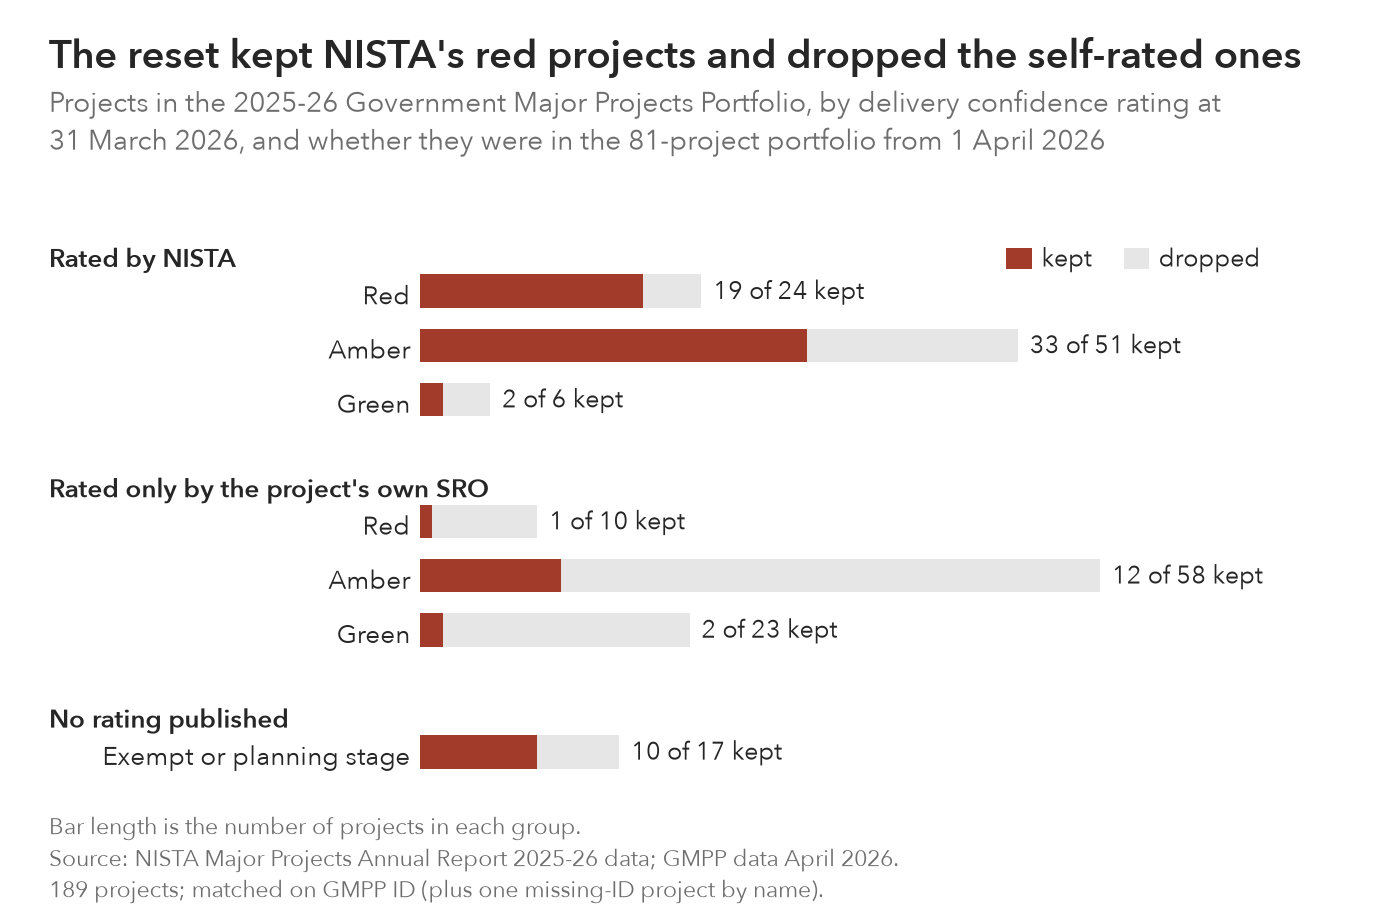
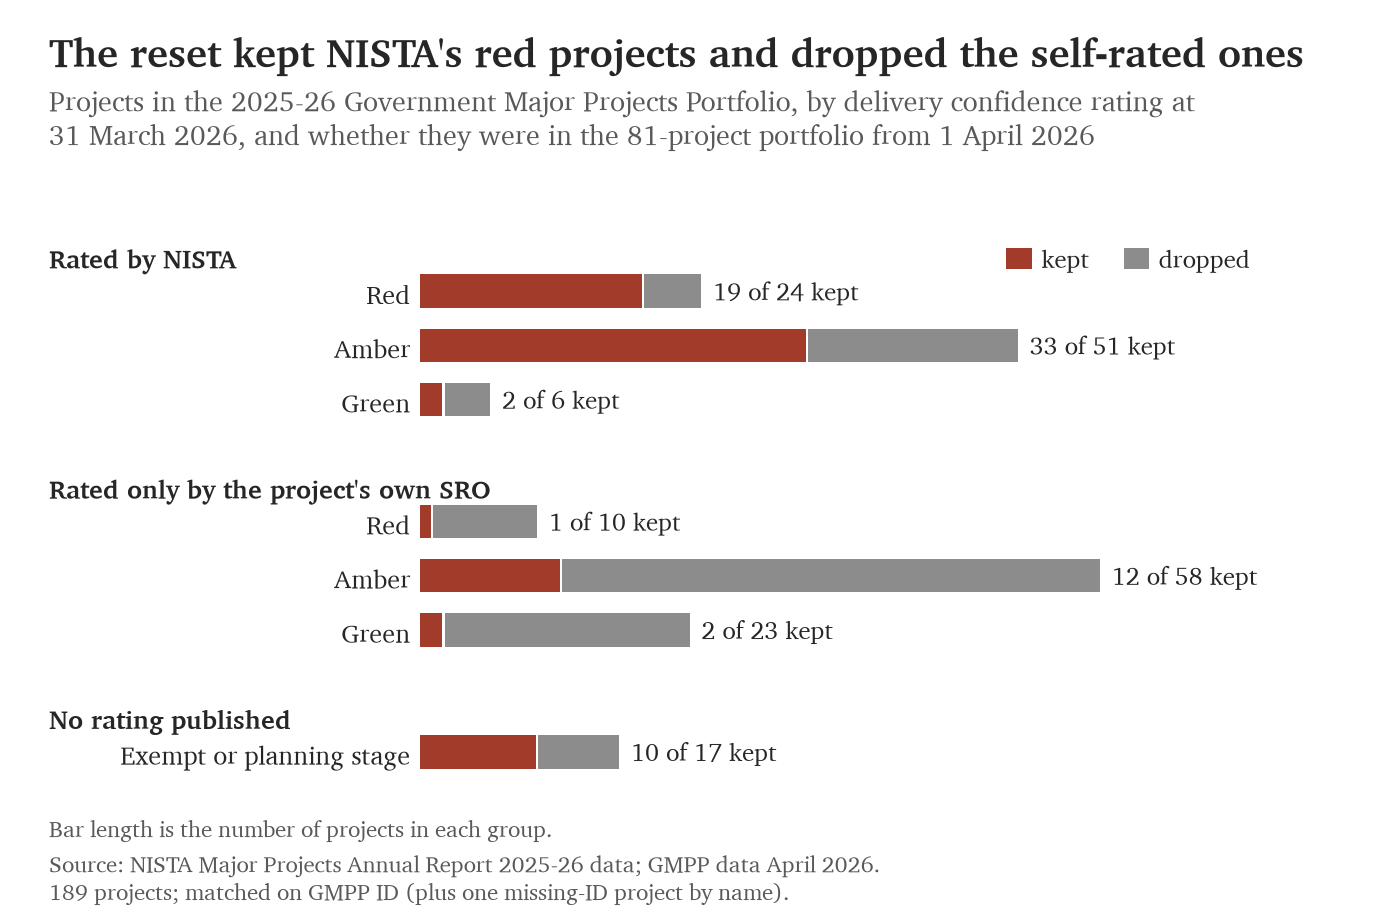
Switch figure to Charter serif and WCAG-accessible contrast (S017)

diff --git a/figure_style/plot_setup.py b/figure_style/plot_setup.py
@@ -1,31 +1,31 @@
-"""House style for Of Particular Interest figures (editorial register, Substack column width).
+"""House style for Of Particular Interest figures (editorial serif register, Substack column width).
 
 Import from a post's figure script:
-    sys.path.insert(0, str(Path(__file__).resolve().parents[2] / "figure_style"))
     from plot_setup import PAL, figure, title_block, save
 
-Avenir Next ships with macOS; on other systems matplotlib falls back to another sans.
+Charter ships with macOS; on other systems matplotlib falls back to Georgia or DejaVu Serif.
 """
 import matplotlib as mpl
 
 mpl.use("Agg")
 import matplotlib.pyplot as plt  # noqa: E402
 
-FONT = "Avenir Next"
+FONT = "Charter"
 BASE_PT = 10.5
 WIDTH_IN = 7.0  # saved at 200 dpi -> 1400 px, 2x Substack's column
 
 PAL = dict(
-    accent="#A23B2A",   # the subject of the figure's sentence
+    accent="#A23B2A",   # the subject of the figure's sentence (6.57:1 on white)
     accent2="#2F5D8A",  # second accent, used rarely
-    ink="#262626",
-    muted="#6E6E6E",    # subtitles, source lines
-    context="#BDBDBD",  # everything that is not the subject
-    faint="#E6E6E6",    # gridlines, table rules
+    ink="#262626",      # primary text (15.13:1 on white, WCAG AAA)
+    muted="#595959",    # subtitles, notes, source lines (7.00:1 on white, WCAG AAA)
+    context="#8C8C8C",  # non-subject bars/series (3.36:1 on white, WCAG 1.4.11 AA >= 3:1)
+    faint="#E6E6E6",    # decorative gridlines, table rules
 )
 
 mpl.rcParams.update({
-    "font.family": FONT,
+    "font.family": "serif",
+    "font.serif": [FONT, "Georgia", "DejaVu Serif"],
     "font.size": BASE_PT,
     "text.color": PAL["ink"],
     "axes.labelsize": BASE_PT,
@@ -57,7 +57,7 @@ def figure(aspect=0.62, nrows=1, ncols=1, **kw):
 def title_block(fig, title, subtitle, source, top=0.97, left=0.035, subtitle_gap=None):
     """Assertive title, measurement subtitle and source line, all on one left edge."""
     gap = subtitle_gap if subtitle_gap is not None else (0.282 / fig.get_figheight())
-    fig.text(left, top, title, ha="left", va="top", fontsize=BASE_PT * 1.45, weight="demibold")
+    fig.text(left, top, title, ha="left", va="top", fontsize=BASE_PT * 1.45, weight="bold")
     fig.text(left, top - gap, subtitle, ha="left", va="top", fontsize=BASE_PT * 0.95, color=PAL["muted"])
     fig.text(left, 0.02, source, ha="left", va="bottom", fontsize=BASE_PT * 0.78, color=PAL["muted"])
 

diff --git a/scripts/figure.py b/scripts/figure.py
@@ -44,8 +44,11 @@ def main(src, out):
                 y += 0.7
             group_y[source] = y
             y += 0.55
-        ax.barh(y, kept, color=PAL["accent"], height=0.62)
-        ax.barh(y, n - kept, left=kept, color=PAL["faint"], height=0.62)
+        gap_x = 0.18 if (kept > 0 and n - kept > 0) else 0.0
+        if kept > 0:
+            ax.barh(y, kept - gap_x / 2, color=PAL["accent"], height=0.62)
+        if n - kept > 0:
+            ax.barh(y, (n - kept) - gap_x / 2, left=kept + gap_x / 2, color=PAL["context"], height=0.62)
         ax.text(n + 1, y, f"{kept} of {n} kept", va="center", fontsize=BASE_PT * 0.85, color=PAL["ink"])
         ticks.append(y)
         labels.append(label)
@@ -54,7 +57,7 @@ def main(src, out):
     to_fig_left = mt.blended_transform_factory(fig.transFigure, ax.transData)
     for source, gy in group_y.items():
         ax.text(0.035, gy - 0.05, GROUP_LABEL[source], transform=to_fig_left, ha="left",
-                va="center", fontsize=BASE_PT * 0.9, weight="demibold")
+                va="center", fontsize=BASE_PT * 0.9, weight="bold")
     ax.set_yticks(ticks, labels)
     ax.invert_yaxis()
     ax.set_xlim(0, 80)
@@ -65,7 +68,7 @@ def main(src, out):
     key_y = group_y["NISTA"] - 0.05
     ax.barh(key_y, 2.2, left=50, height=0.4, color=PAL["accent"])
     ax.text(53, key_y, "kept", va="center", fontsize=BASE_PT * 0.85)
-    ax.barh(key_y, 2.2, left=60, height=0.4, color=PAL["faint"])
+    ax.barh(key_y, 2.2, left=60, height=0.4, color=PAL["context"])
     ax.text(63, key_y, "dropped", va="center", fontsize=BASE_PT * 0.85)
 
     title_block(

diff --git a/CLOSURE_LOG.md b/CLOSURE_LOG.md
@@ -14,7 +14,7 @@
 | S006 | Substack readiness defects in `draft_20261031.md`: 2 GFM pipe tables, terse alt text, `"in this folder"` local-path Method note, and residual `### To check before publishing` checklist | Accept | Converted both GFM pipe tables to formatted bullet lists keeping exact numbers; enriched image alt text with headline counts (`19 of 24 NISTA Red kept... vs 1 of 10 SRO-only Red kept...`); replaced `"in this folder"` with companion-repo placeholder phrasing (`L109`); stripped `### To check before publishing` | Verified 0 GFM pipe tables remain, 0 `To check` headings remain, no fabricated URLs | Inspected `draft_20261031.md` via `read_file` | `S005`, `S008`, `S009` | `closed-verified` |
 | S007 | `README.md` (`python -I` fails on macOS, omits `../figure_style` note) and `requirements.txt` (unused `requests`, unpinned `matplotlib`) | Accept | Updated `README.md` with `uv run` + `python3 -I` commands (`> data/analysis_output.txt`) and `../figure_style/plot_setup.py` / `Matplotlib >= 3.11.2` notes; pruned `requests` and pinned `matplotlib>=3.11.2` in `requirements.txt`; updated script `Usage:` docstrings to `python3 -I` | Confirmed `uv run --offline --python 3.12 ...` uses `matplotlib 3.11.2` and `odfpy 1.4.1`, and `requests` is not imported in `scripts/` | Re-ran both `analyse.py` and `figure.py` after final edits | `README.md`, `requirements.txt`, `scripts/*.py` | `closed-verified` |
 | S008 | No `.git` repo or public companion repository URL yet | Accept | Added `.gitignore`, bundled `figure_style/plot_setup.py`, updated `scripts/figure.py` L10–13 for standalone resolution, updated `README.md` with OGL v3.0 attribution and standalone style path, tightened `draft_20261031.md` L103 HMRC note, and replaced L109 placeholder with `https://github.com/aceross/gmpp-reset` | `figure_style/plot_setup.py` matches `../figure_style/plot_setup.py` by SHA-256 (`2c1f264e...`); initialized `main` inside `gmpp-reset/`, created & pushed public repo `aceross/gmpp-reset` (`5920b43`), and confirmed live URL HTTP 200 | Ran `analyse.py` and `figure.py` via `uv run --offline ... python -I` locally and in isolated fresh clone (`/tmp/gmpp_clone_verify/sub/gmpp-reset`) with 0 byte/pixel diffs on `gmpp_matched.csv`, `analysis_output.txt`, and `fig1_kept_by_rating.png` | `draft_20261031.md` L103 & L109, `README.md`, `scripts/figure.py`, `figure_style/plot_setup.py`, `.gitignore` | `closed-verified` |
-| S009 | Manual Substack editor import & figure upload | Accept (copy-paste package) | Passed pre-publish gate on final `draft_20261031.md` and staged clean Substack copy-paste block (omitting Title/Subtitle/`---`) plus PNG upload & alt-text checklist (updated after `S016`) | Verified 9/9 URLs in `draft_20261031.md` (and 4/4 in `README.md`) return HTTP 200, 0 semicolons, 0 GFM pipe tables, 0 placeholder strings, 0 em-dashes, all counts/costs match `gmpp_matched.csv` & `analysis_output.txt`, and `figures/fig1_kept_by_rating.png` is `1400×924` RGBA (`Matplotlib version3.11.2`) | Programmatic `curl`/regex/pandas checks + visual inspection of PNG via `read_file`; manual Substack web editor paste & PNG upload remain with author per instruction | `draft_20261031.md`, `figures/fig1_kept_by_rating.png`, `S010`, `S011`, `S012`, `S013`, `S014`, `S015`, `S016` | `addressed-not-verified` |
+| S009 | Manual Substack editor import & figure upload | Accept (copy-paste package) | Passed pre-publish gate on final `draft_20261031.md` and staged clean Substack copy-paste block (omitting Title/Subtitle/`---`) plus PNG upload & alt-text checklist (updated after `S017`) | Verified 9/9 URLs in `draft_20261031.md` (and 4/4 in `README.md`) return HTTP 200, 0 semicolons, 0 GFM pipe tables, 0 placeholder strings, 0 em-dashes, all counts/costs match `gmpp_matched.csv` & `analysis_output.txt`, and `figures/fig1_kept_by_rating.png` is `1400×924` RGBA (`Matplotlib version3.11.2`, `Charter` serif, WCAG AA/AAA contrast) | Programmatic `curl`/regex/pandas checks + visual inspection of PNG via `read_file`; manual Substack web editor paste & PNG upload remain with author per instruction | `draft_20261031.md`, `figures/fig1_kept_by_rating.png`, `S010`, `S011`, `S012`, `S013`, `S014`, `S015`, `S016`, `S017` | `addressed-not-verified` |
 | S010 | Staccato sentence runs, isolated 1-line paragraphs, `"aim was to aim"` repetition, audit-insert seams, and 7 stacked bullet lists in `draft_20261031.md` (`9e3a255`) | Accept | Rewrote `draft_20261031.md` (now 75 lines; figure at L23) for fluid prose in the *Of Particular Interest* voice: merged 5 non-tabular bullet lists into connected paragraphs, fixed `"aim was to aim"`, removed parenthetical em-dash seams, and ordered disclosure context before the July 2027 visibility loss | Preserved all verified counts, costs, dates, quotes, policy caveats, and all 8 hyperlinks; 0 GFM pipe tables and 0 placeholder strings | Verified 8/8 URLs return HTTP 200 via `curl`, `grep` checks (`0` pipe tables/placeholders), and all figures against `data/analysis_output.txt` | `draft_20261031.md`, `S009` | `closed-verified` |
 | S011 | Title/subtitle heading echoes (`The red projects mostly stayed`, `What left`, `What we will stop seeing`), 1-paragraph stub section, and mixed heading cadence in `draft_20261031.md` (`0ef5e40`) | Accept | Applied Option A heading revision in `draft_20261031.md` (71 lines total; figure at L19): folded L15 headline-count paragraph into opening in place of teaser & `## The red projects mostly stayed`, and updated four `##` headings to `Who gave the rating mattered more`, `What went back to departments`, `What drops out of routine view`, and `The baseline trap for July 2027` | Preserved all body sentences, counts, costs, dates, quotes, policy caveats, and all 8 hyperlinks; zero Title/Subtitle heading echoes remain | Verified `71` lines, image at `L19` (body line `13`), 8/8 URLs HTTP 200 via `curl`, and 0 pipe tables/placeholders | `draft_20261031.md`, `S009` | `closed-verified` |
 | S012 | Missing "why this matters" stakes in `draft_20261031.md` (`b54ae02`): opening lacked GMPP public-accountability role, NISTA/SRO two-tier implication was unstated, IT/SRO-red departures lacked stakes, and 2013 transparency peg was unexamined | Accept | Threaded all four approved stakes into `draft_20261031.md` (83 lines total; figure at L21): added 2013 public ledger role in opening (`L7`), interpreted NISTA/SRO two-tier alignment (`L17`, `L23`), explained IT/service-reform & 9 SRO-only red exits vs prior-year `3` red leavers (`L34`, `L38`, `L47`), linked 2013 `major-projects-transparency-policy-and-exemptions-guidance` (`L51`), and added `## Why this matters` (`L63–L69`) uncoupling central scrutiny from public disclosure | `FULL_TEXT_VERIFIED` against live GOV.UK API (`major-projects-transparency-policy-and-exemptions-guidance`, NISTA 2025-26 Annual Report `§§8, 8.5, 9`) and `data/analysis_output.txt` | Verified `83` lines, image at `L21` (body line `15`), `9/9` URLs HTTP `200` via `curl`, and `0` GFM pipe tables / placeholders | `draft_20261031.md`, `S009` | `closed-verified` |
@@ -22,3 +22,4 @@
 | S014 | `draft_20261031.md` (`f1b0fdf`) needed a plain-English Matrix explanation sentence, contained 7 semicolons across body & Method note, and left several analytical/institutional implications compressed | Accept | Inserted plain-English Matrix explanation sentence after the 9-department summary (`L7`), removed all semicolons across body & Method note, and expanded implications across all sections (`L11`, `L27`, `L38`, `L40`, `L51`, `L57`, `L63`, `L65`, `L71`, `L73`; `87` lines total, figure at `L23`) | `FULL_TEXT_VERIFIED` against GOV.UK `privacy-notice-erp-transition-programme-from-neo-to-sop-html`, `data/raw/gmpp_2025_26.csv`, and `data/gmpp_matched.csv` (`£464.05bn` total WLC; `£168.91bn` dropped) | Verified `87` lines, `L23` image (body line `17`), `0` semicolons, `0` em-dashes, `0` pipe tables/placeholders, and `9/9` URLs HTTP `200` via `curl` | `draft_20261031.md`, `S009` | `closed-verified` |
 | S015 | Stilted, LLM-like prose (signpost openers, symmetrical contrast formulas, multi-clause 50-word sentences, think-tank clichés) and `## Why this matters` heading in `draft_20261031.md` (`cbd74d0`) | Accept | Rewrote `draft_20261031.md` (`99` lines total, figure at `L29` / body line `23`) in plain-English *Of Particular Interest* register and replaced `## Why this matters` with `## Separating scrutiny from publication` (`L79`) | Preserved every verified number, quote, policy nuance, and all 9 hyperlinks; removed signpost openers, contrast tics, and jargon clichés | Verified `99` lines, `L29` image, `0` semicolons, `0` em-dashes, `0` pipe tables/placeholders, and `9/9` URLs HTTP `200` via `curl` | `draft_20261031.md`, `S009` | `closed-verified` |
 | S016 | Subtitle leaned on full official portfolio title and abstract phrasing (`What left the Government Major Projects Portfolio in April, and what we will no longer see`) | Accept | Replaced `draft_20261031.md` L3 subtitle with `*How Whitehall cut its major-projects list in half, and why £169 billion of work is leaving the public record*` | Matches plain-English register and verified `£168.91bn` (`£169bn`) exit WLC and `110` of `189` exits | Verified `99` lines, `L29` image, `0` semicolons, `0` em-dashes, `0` pipe tables/placeholders, and `9/9` URLs HTTP `200` | `draft_20261031.md` L3, `S009` | `closed-verified` |
+| S017 | Figure used sans-serif `Avenir Next` and failed WCAG 2.1 non-text contrast (`#E6E6E6` dropped bars/swatch = `1.25:1` on `#FFFFFF`) | Accept | Updated `figure_style/plot_setup.py` (`Charter` serif with `["Charter", "Georgia", "DejaVu Serif"]`, `weight="bold"`, `PAL["context"] = "#8C8C8C"`, `PAL["muted"] = "#595959"`), updated `scripts/figure.py` (`PAL["context"]`, `0.18`-unit white segment gap, `weight="bold"`), updated `README.md` L12, and re-rendered `figures/fig1_kept_by_rating.png` | `1400×924` RGBA (`Matplotlib version3.11.2`), zero `findfont` warnings; WCAG ratios on `#FFFFFF`: `ink` `#262626` `15.13:1`, `muted` `#595959` `7.00:1` (AAA), `accent` `#A23B2A` `6.57:1`, `context` `#8C8C8C` `3.36:1` (WCAG 1.4.11 AA >= 3:1) | Re-ran `scripts/figure.py` via `uv run --offline ... python -I`, checked WCAG ratios programmatically, and visually inspected PNG via `read_file` | `figure_style/plot_setup.py`, `scripts/figure.py`, `figures/fig1_kept_by_rating.png`, `README.md`, `S009` | `closed-verified` |

diff --git a/README.md b/README.md
@@ -9,7 +9,7 @@ Companion code and data for *"The red projects stayed"* ([Of Particular Interest
 
 ## Dependencies
 
-Install packages from `requirements.txt` (`matplotlib>=3.11.2` is required on macOS for proper `Avenir Next` Regular and DemiBold weights). `scripts/figure.py` also imports the house style module in `figure_style/plot_setup.py`.
+Install packages from `requirements.txt` (`matplotlib>=3.11.2` is required on macOS for proper `Charter` Roman and Bold weights). `scripts/figure.py` also imports the house style module in `figure_style/plot_setup.py`.
 
 ## Reproduce
 
